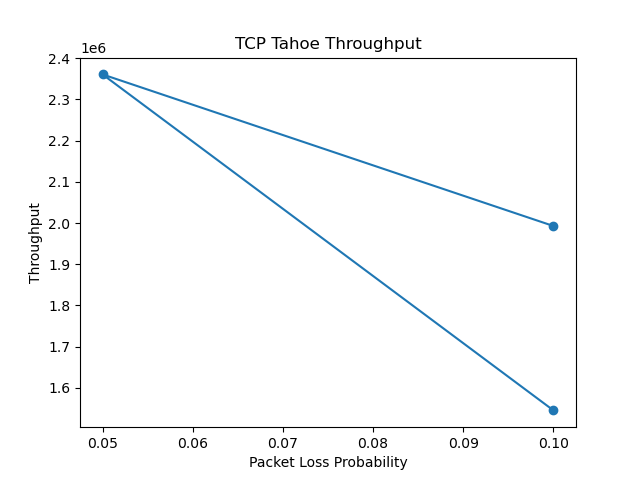
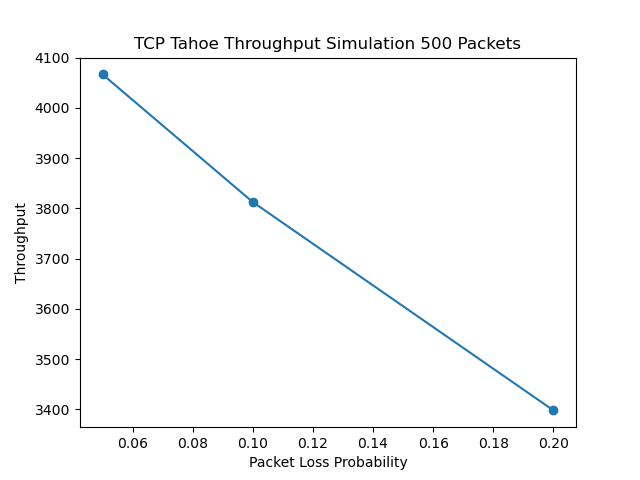
added sim_time,added jitter graph

diff --git a/main.py b/main.py
@@ -2,13 +2,16 @@ import random
 import time
 from tcp_tahoe import TCPTahoe
 
-def simulate(loss_prob, total_packets=100):
+def simulate(loss_prob, total_packets=500):
     tcp = TCPTahoe()
     delays = []
-
+    sim_time = 0
     start_time = time.time()
+    send_time = sim_time
+    delay = sim_time - send_time
 
     for _ in range(total_packets):
+        sim_time += 1
         packet_id = tcp.send_packet()
 
         time.sleep(0.0001)  # Simulate network delay
@@ -40,7 +43,7 @@ def simulate(loss_prob, total_packets=100):
     return throughput, avg_delay, jitter, tcp.retransmissions
 
 
-loss_values = [0.01, 0.05, 0.10]
+loss_values = [0.05, 0.10, 0.20]
 
 print("Loss\tThroughput\tAvg Delay\tjitter\tRetransmissions")
 

diff --git a/graph.py b/graph.py
@@ -1,11 +1,12 @@
 import matplotlib.pyplot as plt
 
-loss = [0.1,0.05, 0.10]
-throughput = [1545269.89, 2360865.72, 1992873.72]
+loss = [0.05, 0.10, 0.20]
+throughput = [4066.57, 3812.34, 3397.76]
 plt.plot(loss, throughput, marker='o')
 plt.xlabel('Packet Loss Probability')
 plt.ylabel('Throughput')
-plt.title('TCP Tahoe Throughput')
+plt.title('TCP Tahoe Throughput Simulation 500 Packets')
 plt.savefig('tcp_tahoe_throughput.png')
 plt.show()
 
+plt.close()

diff --git a/graph2.py b/graph2.py
@@ -1,6 +1,6 @@
 import matplotlib.pyplot as plt
 
-loss = [0.1,0.05, 0.10]
+loss = [0.05, 0.10, 0.20]
 retrans = [1, 4, 8]
 plt.plot(loss, retrans, marker='o')
 plt.xlabel('Packet Loss Probability')
@@ -8,3 +8,4 @@ plt.ylabel('Retransmissions')
 plt.title('TCP Tahoe Retransmissions')
 plt.savefig('tcp_tahoe_retransmissions.png')
 plt.show()
+plt.close()

diff --git a/graph3.py b/graph3.py
@@ -1,0 +1,14 @@
+import matplotlib.pyplot as plt
+
+loss = [0.05, 0.10, 0.20]
+jitter = [0.000003, 0.000002, 0.000009]
+plt.plot(loss, jitter, marker='o')
+plt.xlabel('Packet Loss Probability')
+plt.ylabel('Jitter (seconds)')
+plt.title('TCP Tahoe jitter Simulation 500 Packets')
+plt.savefig('tcp_tahoe_jitter.png')
+plt.show()
+
+plt.close()
+
+
